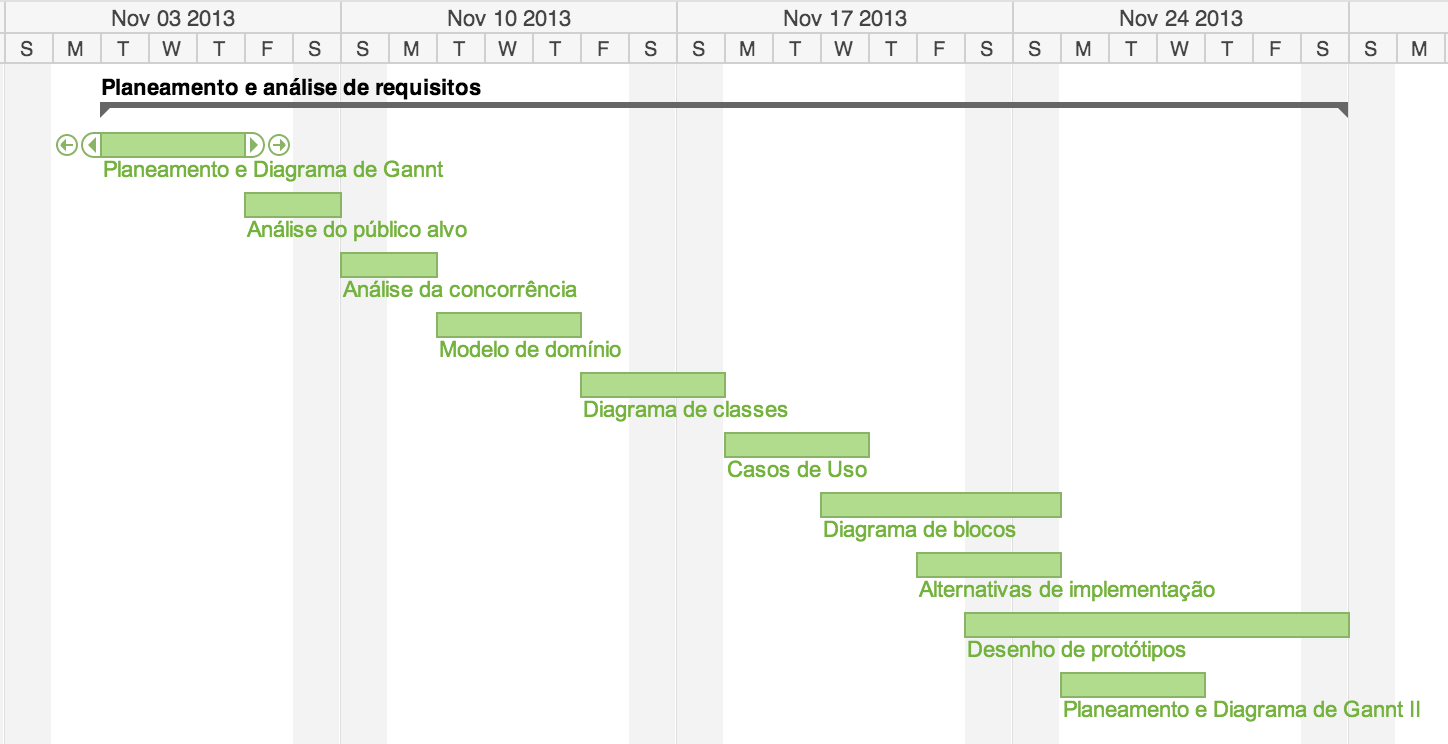
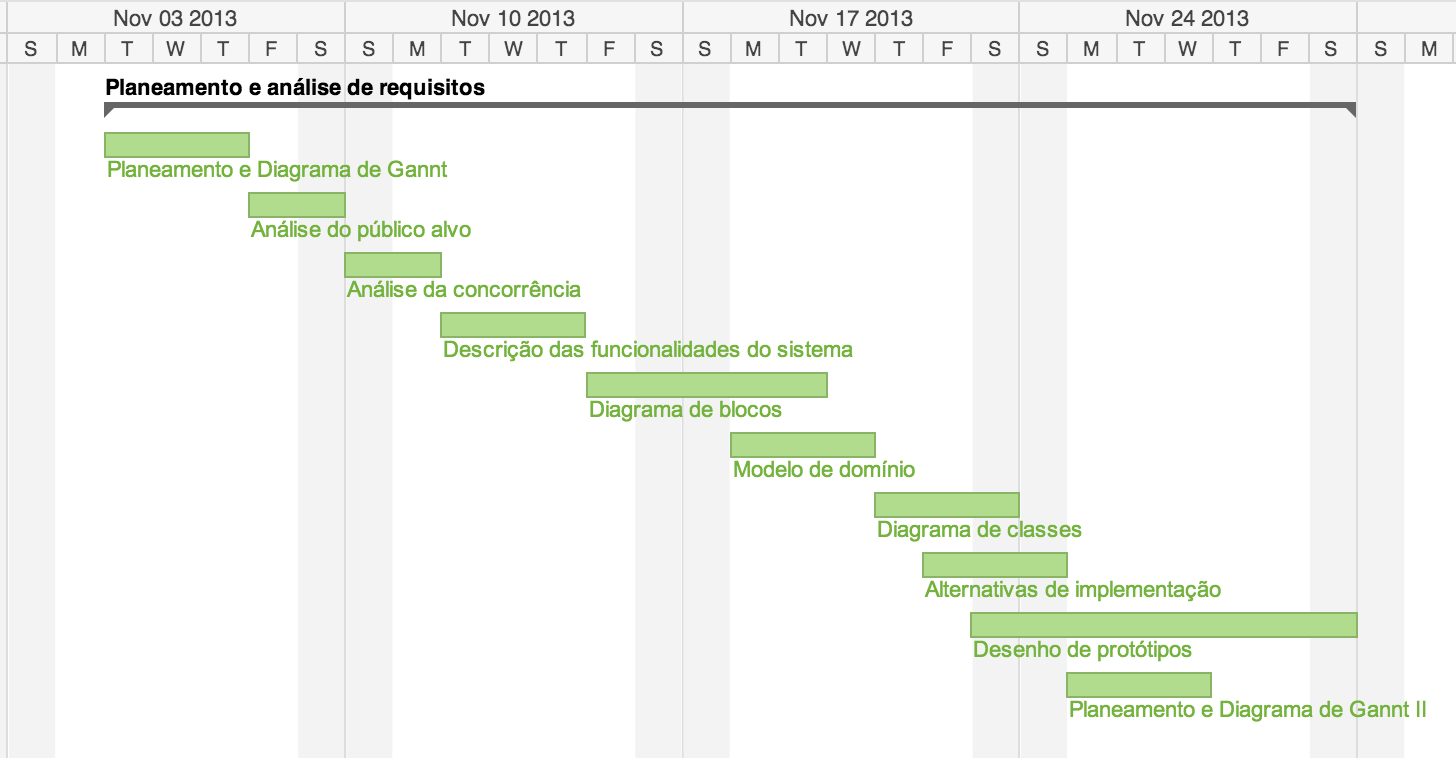
Adiciona novos diagramas e altera textos

Changed region(s): [[0.0, 0.0, 0.9945, 0.9892]]

diff --git a/plano_de_trabalho.tex b/plano_de_trabalho.tex
@@ -1,76 +1,82 @@
 \section{Plano de trabalho}
-Tendo em conta a dimensão da aplicaçãoewf,,,,,,,,,,,,,,,,,,, foi criado um plano de trabalho onde mapeámos as tarefas
-de desenvolvimento no tempo de forma contínua tornado assim possível adaptar um ritmo de trabalho
-consistente com os prazos de entrega de cada fase e então cumprir as metas do projecto.
-Nesse sentido dividimos o projecto em três fases, sendo elas o planeamento e análise de requisitos, o
-desenvolvimento e a documentação.
+Tendo em conta a dimensão da aplicação, foi criado um plano de trabalho onde se mapearam as tarefas
+de desenvolvimento no tempo de forma contínua, tornando assim possível adaptar um ritmo de trabalho
+consistente com os prazos de entrega de cada fase e então cumprir as metas do projeto.
+Nesse sentido dividiu-se o projeto em três fases, sendo elas o \textbf{planeamento e análise de requisitos}, o
+\textbf{desenvolvimento} e a \textbf{documentação}.
 No que diz respeito à fase de planeamento e análise de requisitos, esta fase engloba todo o levantamento 
-de funcionalidades assim como todo o planeamento e estruturação do projecto como
-criação do modelo de domínio, diagrama de classes, modelação do repositório de dados,
-análise da concorrência, plano tecnológico, etc.
+de funcionalidades assim como todo o planeamento e estruturação do projeto 
+nomeadamente, criação do modelo de domínio, diagrama de classes, modelação do repositório de dados,
+análise da concorrência, plano de trabalho, plano tecnológico, casos de estudo, arquitetura do sistema, etc.
 Para esta fase de planeamento, análise e modelação foi criado um plano de um mês onde todas as tarefas 
-teriam de estar concluídas. Na imagem seguinte é possível ver um diagrama de Gannt com
+teriam de estar concluídas. Na Figura \ref{fig: workplan1} é possível ver um diagrama de Gannt com
 o planeamento inicial.
 
-
-
 \begin{figure}[htbp] 
-	\centering
-	\includegraphics[width=1\textwidth]{images/plano_trabalho_1.png}
- 	\caption{Diagrama de Gannt para o planeamento e análise de requisitos}
- 	\label{fig: workplan1}
+  \centering
+  \includegraphics[width=1\textwidth]{images/plano_de_trabalho/gannt_1.png}
+  \caption{Diagrama de Gannt para o planeamento e análise de requisitos}
+  \label{fig: workplan1}
 \end{figure}
-
 
 De seguida, prosseguindo para o planeamento da fase de desenvolvimento após 
 analisar as funcionalidades e modelar o sistema  é altura de começar a 
 prototipar a aplicação e começar a iterar sobre as funcionalidades a 
-implementar. Neste sentido englobámos aqui tarefas como prototipagem em HTML, 
+implementar. Neste sentido englobaram-se aqui tarefas como prototipagem em HTML, 
 criação de migrações na modelação da base dados, modelação das entidades a 
-representar (modelos) na forma da arquitectura MVC seguindo-se a implementação dos 
-controladores e visões tendo como base as funcionalidades a desenvolver para o 
-sistema.  Nesta fase pretende-se tornar a aplicação capaz de suportar os seus 
+representar (modelos) na forma da arquitetura MVC seguindo-se a implementação dos 
+controladores e visões, tendo como base as funcionalidades a desenvolver para o 
+sistema. Nesta fase pretende-se tornar a aplicação capaz de suportar os seus 
 utilizadores (não registados, docentes e alunos) das tarefas de gestão de UCs, 
-projectos, grupos, submissões, assim como consulta e disponibilização de 
-projectos. De forma a tornar a aplicação o mais robusta possível planeamos um 
-espaço temporal dedicado a testes de usabilidade e funcionalidade de forma a 
-corrigir todos os pormenores que possam ter um impacto negativo.
+projetos, grupos e submissões, assim como consulta e disponibilização de 
+projetos. No que diz respeito à metodologia de desenvolvimento seguir-se-ão 
+os métodos e princípios de desenvolvimento de software \textit{Agile}. Posto isto, 
+far-se-á um desenvolvimento cíclico e iterativo focado em cada grupo de 
+funcionalidades, desenvolvendo-as, testando-as e validando-as. Caso seja 
+necessário fazer novas iterações sobre um grupo de funcionalidades, basta 
+repetir o ciclo até que seja possível validar o que foi desenvolvido e de seguida inicia-se 
+um novo ciclo de desenvolvimento para o grupo de funcionalidades seguinte.
+Desta forma é possível uma rápida adaptação a mudanças e ajustes sem ter que verificar e 
+revalidar todo o planeamento inicial do projeto e ainda assim atingir as metas 
+definidas.
+Faça-se notar que em cada ciclo de desenvolvimento para além da implementação,
+ serão feitos testes de usabilidade e funcionalidade, dessa forma é possível garantir que em cada estado do 
+desenvolvimento, todas as funcionalidades implementadas encontram-se o mais perto 
+do idealizado possível.
+Durante cada ciclo de desenvolvimento também faremos a integração da 
+documentação relativa ao grupo de funcionalidades que estão a ser implementadas.
+É possível ver nas Figuras \ref{fig: workplan2}, \ref{fig: workplan3}, \ref{fig: workplan4} 
+os diagramas de Gannt com o planeamento respetivo à fase de desenvolvimento.
 
-
-\begin{figure}[htbp] 
-	\centering
-	\includegraphics[width=1\textwidth]{images/plano_trabalho_2.png}
- 	\caption{Diagrama de Gannt para o desenvolvimento I}
- 	\label{fig: workplan2}
-\end{figure}
-
-\begin{figure}[htbp] 
-	\centering
-	\includegraphics[width=1\textwidth]{images/plano_trabalho_3.png}
- 	\caption{Diagrama de Gannt para o desenvolvimento II}
- 	\label{fig: workplan3}
-\end{figure}
-
-\begin{figure}[htbp] 
-	\centering
-	\includegraphics[width=1\textwidth]{images/plano_trabalho_4.png}
- 	\caption{Diagrama de Gannt para o desenvolvimento III}
- 	\label{fig: workplan4}
+\begin{figure}[htbp!] 
+  \centering
+  \includegraphics[width=1\textwidth]{images/plano_de_trabalho/gannt_2.png}
+  \caption{Diagrama de Gannt para o desenvolvimento I}
+  \label{fig: workplan2}
 \end{figure}
 
 \begin{figure}[htbp!] 
-	\centering
-	\includegraphics[width=1\textwidth]{images/plano_trabalho_5.png}
- 	\caption{Diagrama de Gannt para o desenvolvimento IV}
- 	\label{fig: workplan5}
+  \centering
+  \includegraphics[width=1\textwidth]{images/plano_de_trabalho/gannt_3.png}
+  \caption{Diagrama de Gannt para o desenvolvimento II}
+  \label{fig: workplan3}
 \end{figure}
 
+\begin{figure}[htbp!] 
+  \centering
+  \includegraphics[width=1\textwidth]{images/plano_de_trabalho/gannt_4.png}
+  \caption{Diagrama de Gannt para o desenvolvimento III}
+  \label{fig: workplan4}
+\end{figure}
 
 Por fim, terminámos com a fase de documentação onde será feita toda a descrição 
 do sistema desenvolvido em termos de funcionalidades e implementação de forma a 
 possibilitar a consulta tanto aos interessados em utilizar a aplicação bem como 
 de forma a suportar a possível necessidade de manutenção da aplicação. Desta 
 forma qualquer um pode entender todo o sistema na sua plenitude através da 
-documentação criada. Para esta fase reservou-se o restante tempo disponível até 
-à entrega final do projecto.
+documentação criada. As tarefas desta fase serão distribuídas pelos ciclos de 
+desenvolvimento falados acima, em que cada fase de documentação será empregue no 
+mesmo ciclo de desenvolvimento das funcionalidades respetivas.
+O diagrama de Gannt completo encontra-se representado em Anexo na Figura \ref{fig: 
+workplan0}.
 

diff --git a/anexos.tex b/anexos.tex
@@ -1,1 +1,8 @@
 \section{Anexos}
+
+\begin{figure}[htbp!] 
+	\centering
+	\includegraphics[width=1\textwidth,angle=90]{images/plano_de_trabalho/gannt_0.png}
+ 	\caption{Diagrama de Gannt completo}
+ 	\label{fig: workplan0}
+\end{figure}
